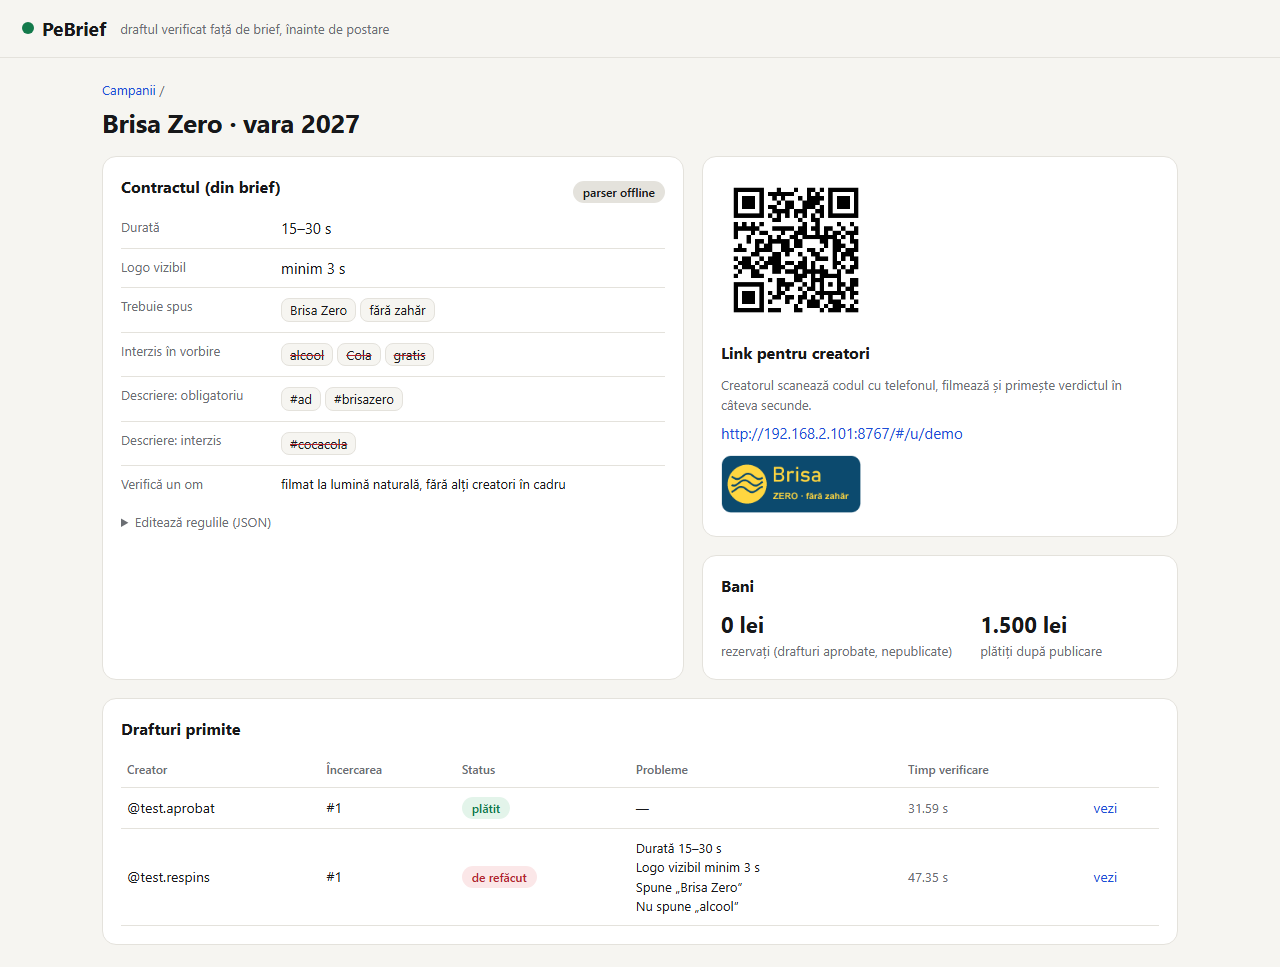
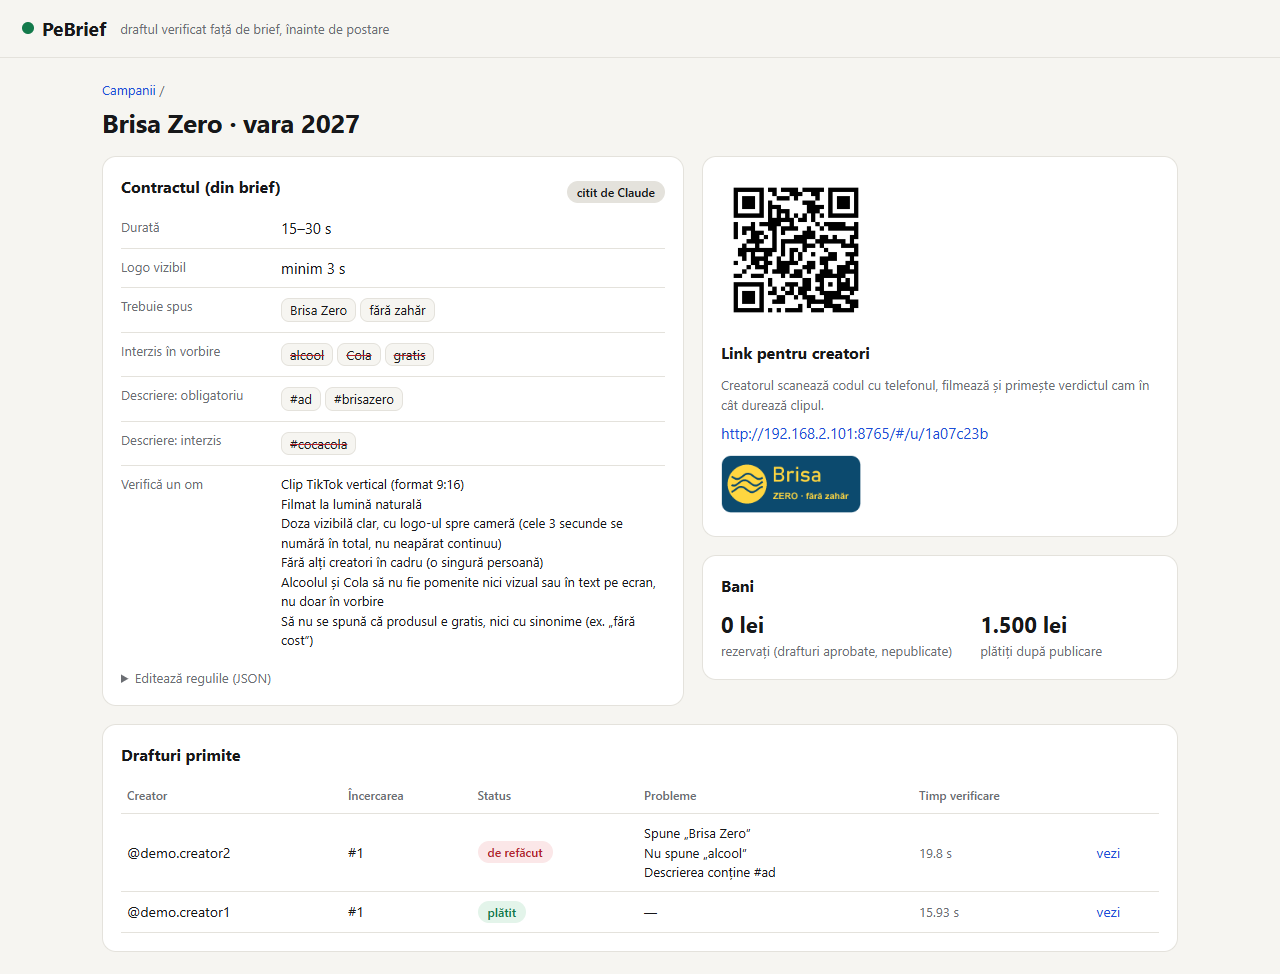
Capturi noi, cu brief-ul citit de Claude; viteza spusă cum e măsurată
- Capturile refăcute pe o instalare curată: campania e citită de Claude dintr-un
  brief scris liber, verdictul vine în 19,8 s pentru un clip de 21,4 s, portul e 8765.
  Clipul și cadrele-dovadă rămân blurate (TikTok-urile altor creatori).
- „În câteva secunde” devine „cam în cât durează clipul”, în README și în interfață:
  măsurat, ~1 s de verificare pe secundă de video, pe procesor.
- REZULTATE.md: scoase trimiterile la fișiere care nu sunt în repo.

diff --git a/static/app.js b/static/app.js
@@ -102,7 +102,7 @@ async function campaign(id) {
         <div class="card row" style="align-items:flex-start;gap:16px">
           <img class="qr" src="/api/qr?url=${encodeURIComponent(url)}" alt="cod QR">
           <div><h2>Link pentru creatori</h2>
-            <div class="small mute">Creatorul scanează codul cu telefonul, filmează și primește verdictul în câteva secunde.</div>
+            <div class="small mute">Creatorul scanează codul cu telefonul, filmează și primește verdictul cam în cât durează clipul.</div>
             <div style="margin-top:8px"><a href="#/u/${id}">${esc(url)}</a></div>
             ${c.has_logo ? `<img src="/api/campaigns/${id}/logo" style="max-width:140px;margin-top:10px;border-radius:8px">` : '<div class="err small">Fără logo: verificarea de logo e oprită.</div>'}
           </div>
@@ -149,7 +149,7 @@ async function upload(id) {
     <div class="grid g2">
       <form id="f" class="card">
         <h1 style="font-size:22px">${esc(c.title)}</h1>
-        <div class="small mute">Încarcă draftul înainte să-l postezi. Primești pe loc ce trebuie refăcut, cu secunda exactă.</div>
+        <div class="small mute">Încarcă draftul înainte să-l postezi. Afli ce trebuie refăcut, cu secunda exactă, cam în cât durează clipul.</div>
         <label>Numele tău</label><input type="text" name="creator" required value="${esc(name)}" placeholder="@contul_tau">
         <label>Clipul</label><input type="file" name="video" accept="video/*" required>
         <label>Descrierea pe care o vei posta</label><input type="text" name="caption" placeholder="text + hashtag-uri">

diff --git a/README.md b/README.md
@@ -2,7 +2,7 @@
 
 **Problema.** O agenție care lucrează cu sute de creatori verifică fiecare draft de mână, față de brief: se vede logo-ul destul, s-a spus numele produsului exact, apare #ad, a scăpat vreun cuvânt interzis. Urmează runde de mesaje („logo-ul nu se vede”, „ba se vede”), orgolii și plăți întârziate. Campania Beach, Please! din aprilie 2026 a avut „sute de influenceri internaționali”.
 
-**Ce face PeBrief.** Brief-ul devine un contract cu reguli verificabile. Creatorul încarcă draftul de pe telefon și primește în câteva secunde un verdict cu **secunda exactă** și cadrul-dovadă: *„Logo-ul se vede 2,3 s din 3 s cerute, în 0:00.6–0:03.0”*, *„La 0:02.1 ai spus «Brisa», dar brief-ul cere exact «Brisa Zero»”*. Cu un cadru și o secundă în față, nu mai ai cu cine să te cerți. Când draftul trece, onorariul e rezervat și se eliberează la publicare.
+**Ce face PeBrief.** Brief-ul devine un contract cu reguli verificabile. Creatorul încarcă draftul de pe telefon și primește, cam în cât durează clipul, un verdict cu **secunda exactă** și cadrul-dovadă: *„Logo-ul se vede 2,3 s din 3 s cerute, în 0:00.6–0:03.0”*, *„La 0:02.1 ai spus «Brisa», dar brief-ul cere exact «Brisa Zero»”*. Cu un cadru și o secundă în față, nu mai ai cu cine să te cerți. Când draftul trece, onorariul e rezervat și se eliberează la publicare.
 
 Totul rulează local. Video-ul nu pleacă nicăieri. Doar textul brief-ului ajunge la Claude.
 
@@ -22,7 +22,7 @@ python server.py
 
 Prima pornire descarcă modelul whisper `medium` (cam 1,5 GB), apoi îl ține în cache. Campania demo „Brisa Zero” se creează singură. ffmpeg vine prin `imageio-ffmpeg`, nu trebuie instalat separat. Fără Claude (fără `claude` în PATH și fără `ANTHROPIC_API_KEY`), brief-ul se citește cu parserul offline, pe șablon.
 
-## Cum se folosește (demo în fața juriului)
+## Cum se folosește
 
 1. **Agenția:** „Campanie nouă” → lipești brief-ul așa cum a venit, încarci logo-ul (sau poza produsului) → Claude scoate regulile. Ce nu se poate verifica automat (ton, lumină) ajunge la „Verifică un om”, nu e ignorat.
 2. **Creatorul:** scanează QR-ul, filmează 15 s cu produsul, scrie descrierea → verdictul apare cu linia de timp: verde pentru logo, albastru pentru frazele cerute, roșu pentru cuvintele interzise. Click pe orice dovadă și video-ul sare la secunda respectivă. Peste video, un chenar verde urmărește logo-ul găsit.

diff --git a/eval/REZULTATE.md b/eval/REZULTATE.md
@@ -4,7 +4,7 @@
 
 ## Setul de test
 
-Clipuri TikTok verticale reale, cu creatori care vorbesc în engleză (din `drive-download-…zip`), peste care am pus:
+Clipuri TikTok verticale reale, cu creatori care vorbesc în engleză, peste care am pus (clipurile nu sunt în repo, fiindcă sunt ale altor creatori):
 
 - **logo-ul inventat „Brisa Zero”**, mișcat ca un produs ținut în mână: lățime 16–42% din cadru, rotație ±22°, perspectivă până la 14%, blur până la σ=1,6, lumină 0,7–1,15×, tremur. Unul sau două intervale; total 0 s, 1–2,5 s (sub pragul de 3 s) sau 3,5–7 s;
 - **un logo-capcană „VOLTA”** în 30% din clipuri, care nu trebuie numărat (un clip are oricum logo-ul Supabase pe ecran);
@@ -68,4 +68,4 @@ python eval/logo_only.py final     # doar logo-ul, mai repede
 python eval/ncc_stats.py clips     # distribuția corelației pentru prag
 ```
 
-Rezultatele brute, clip cu clip, sunt în `eval/results*.json`, iar jurnalele în `eval/data/eval-*.log`.
+Rezultatele brute, clip cu clip, sunt în `eval/results*.json`.
